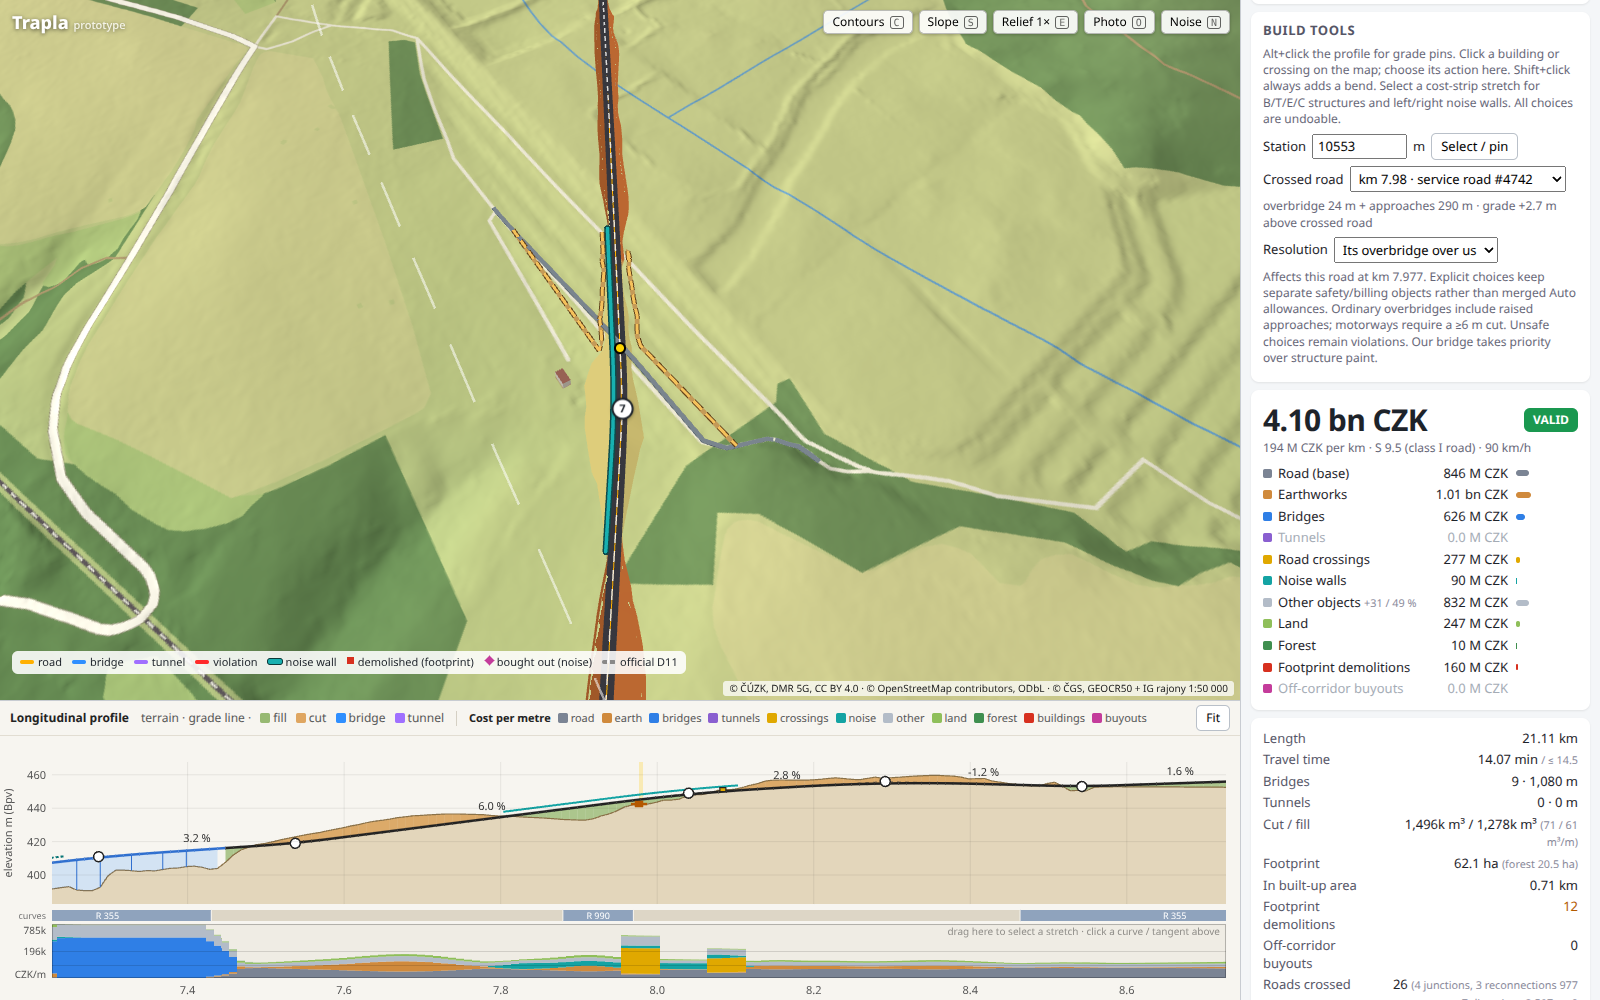
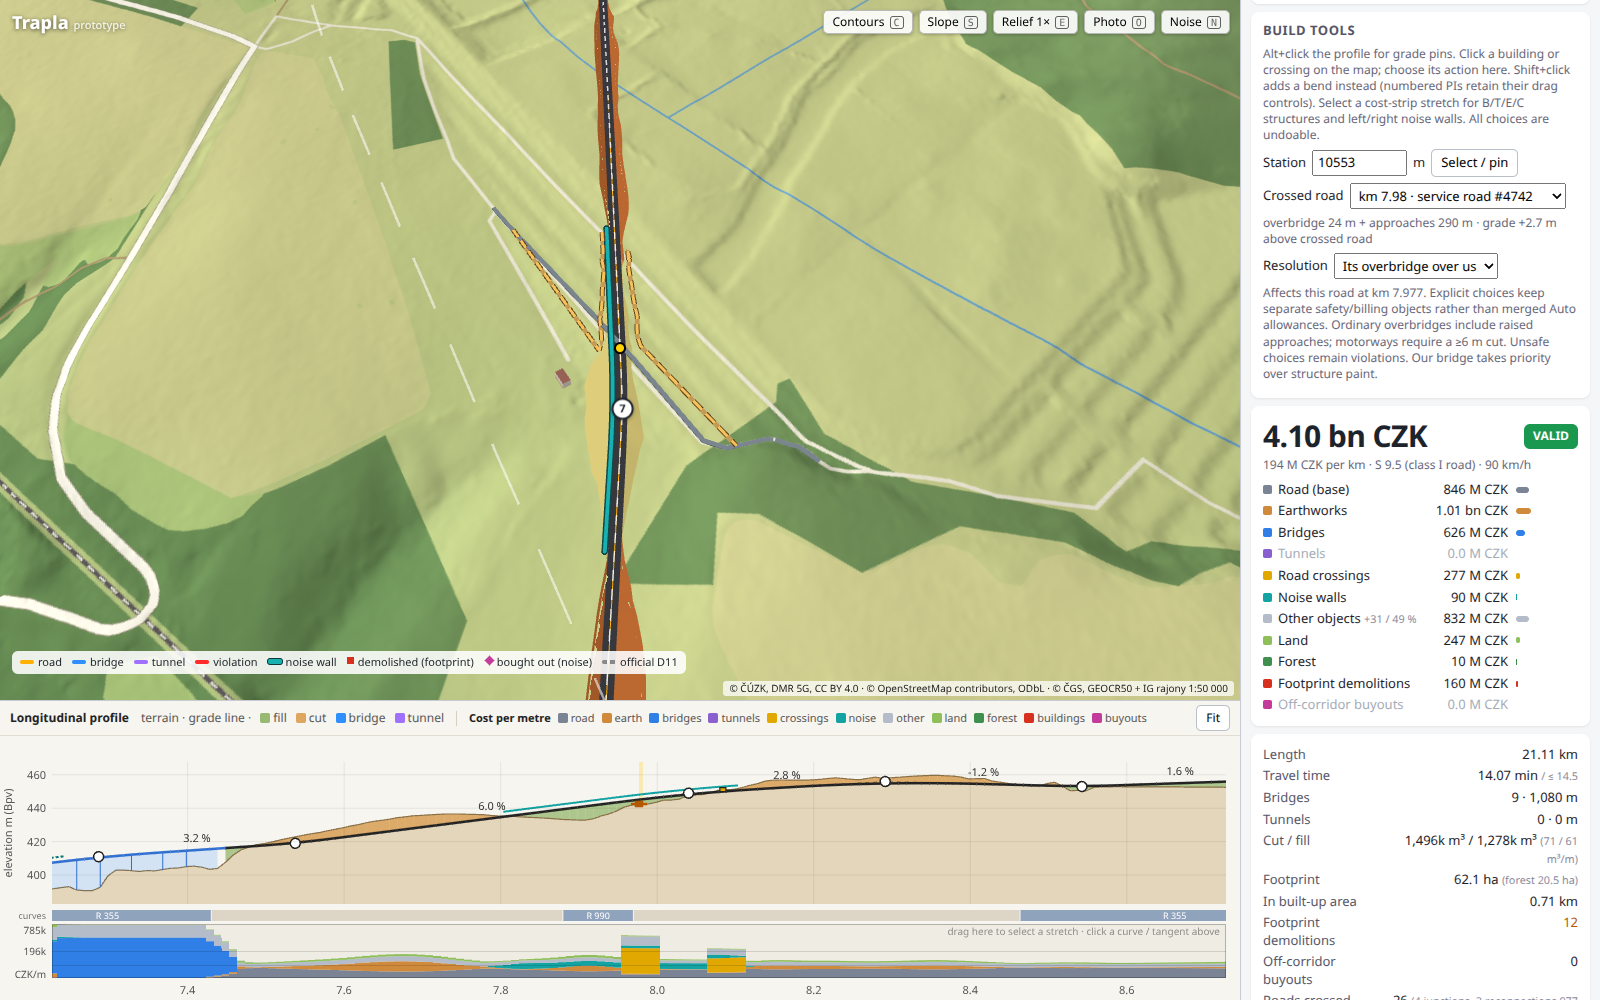
Stamp legacy best designs before future object-pack migrations

diff --git a/tests/state.test.ts b/tests/state.test.ts
@@ -18,6 +18,19 @@ it('keeps the design but resets incomparable best scores when the ground pack ch
     expect(mapped.offerBest(150, mapped.design)).toBe(true);
     expect(new Store('test', startDesign, 'ground-hash-A').best?.cost).toBe(150);
     expect(new Store('test', startDesign, 'ground-hash-B').best).toBeNull();
+
+    // An accepted pre-fingerprint best must be stamped on disk even when no cheaper result replaces
+    // it; otherwise Load best could rebind old building/road indices after the next pack rebuild.
+    const oldObjects = new Store('objects', startDesign, 'ground');
+    oldObjects.update((d) => { d.buildingOverrides = [{ j: 2, action: 'keep' }]; });
+    oldObjects.offerBest(100, oldObjects.design);
+    const accepted = new Store('objects', startDesign, 'ground', 'object-pack-A');
+    expect(accepted.best?.design.objectData).toBe('object-pack-A');
+    expect(accepted.offerBest(200, accepted.design)).toBe(false);
+    expect(JSON.parse(values.get('objects.best')!).design.objectData).toBe('object-pack-A');
+    const rebuilt = new Store('objects', startDesign, 'ground', 'object-pack-B');
+    expect(rebuilt.best).toBeNull();
+    expect(rebuilt.design.buildingOverrides).toEqual([]);
   } finally {
     vi.unstubAllGlobals();
   }

diff --git a/src/ui/build-tools.ts b/src/ui/build-tools.ts
@@ -126,7 +126,7 @@ export class BuildTools {
   private render() {
     this.pendingRender = false;
     const r = this.r, d = this.d, s = this.station;
-    this.root.innerHTML = `<h2>Build tools</h2><div class="sub">Alt+click the profile for grade pins. Click a building or crossing on the map; choose its action here. Shift+click always adds a bend. Select a cost-strip stretch for B/T/E/C structures and left/right noise walls. All choices are undoable.</div>`;
+    this.root.innerHTML = `<h2>Build tools</h2><div class="sub">Alt+click the profile for grade pins. Click a building or crossing on the map; choose its action here. Shift+click adds a bend instead (numbered PIs retain their drag controls). Select a cost-strip stretch for B/T/E/C structures and left/right noise walls. All choices are undoable.</div>`;
     if (this.objectDataChanged) {
       const notice = document.createElement('p'); notice.className = 'warn';
       notice.textContent = 'Scenario objects changed: saved building/crossing choices were cleared to avoid selecting different objects. Station-based decisions are retained.';

diff --git a/src/state.ts b/src/state.ts
@@ -37,6 +37,12 @@ export class Store {
       // a best score from an older cost model is not comparable with today's bills: forget it
       if (this.best && (this.best.model !== COST_MODEL_VERSION || this.best.pricingData !== pricingData
         || (objectData && this.best.design.objectData && this.best.design.objectData !== objectData))) this.best = null;
+      // Once accepted, legacy bests must acquire the SAME identity as the current design. Leaving
+      // them unstamped would let Load best rebind old positional IDs after a later pack rebuild.
+      if (this.best && objectData && !this.best.design.objectData) {
+        this.best.design.objectData = objectData;
+        try { localStorage.setItem(key + '.best', JSON.stringify(this.best)); } catch { /* quota */ }
+      }
     } catch { d = null; }
     // designs saved by the first prototype started from a terrain-hugging (invalid) profile: drop those
     this.design = d && Array.isArray(d.pis) && !(d as { naive?: boolean }).naive ? d : initial();

diff --git a/src/ui/hud.ts b/src/ui/hud.ts
@@ -107,7 +107,7 @@ export class Hud {
       <section class="card help">
         <h2>How to play</h2>
         <ul>
-          <li><b>Click</b> bare terrain to add a bend (PI); click a building/crossing for Build tools. <b>Shift+click</b> always adds a bend, even on an object</li>
+          <li><b>Click</b> bare terrain to add a bend (PI); click a building/crossing for Build tools. <b>Shift+click</b> adds a bend instead of selecting a building/crossing</li>
           <li><b>Drag</b> a numbered PI to move it, <b>right-click</b> or <kbd>Del</kbd> to delete</li>
           <li>Bends are corners of the dashed polygon; the selected one shows its radius on the map: drag a <b>◇ grip</b> along the leg, <b>wheel</b> over the bend or <kbd>+</kbd> / <kbd>−</kbd>, <b>max</b> / <b>auto</b>. Close bends turning the same way become one long curve</li>
           <li>Map: <b>left-drag</b> pan · <b>right-drag</b> rotate · <b>wheel</b> zoom</li>

diff --git a/PLAN.md b/PLAN.md
@@ -569,7 +569,8 @@ difference is calculated once per pair, avoiding three attenuation logarithms. T
   explicit clearance, depth, spacing, structure and reachable-link checks; invalid choices cannot serve
   as resolved link anchors. Auto receives requested bridge clearance / motorway-overbridge cut bounds;
   ordinary overbridges use the same priced raised approaches as Auto. The HUD lists all affected
-  intersections and can clear inactive saved road choices. Shift+map-click always places a bend. Map shows
+  intersections and can clear inactive saved road choices. Shift+map-click places a bend instead of
+  selecting a building/crossing; existing numbered PI markers retain their drag controls. Map shows
   junction rings, continuous crossed roads/decks and schematic two-sided links; pricing remains the
   documented station-gap proxy (not a surveyed diversion). Default scoring is unchanged.
 - **Building choices** persist by pack building index: explicit buyout/demolition anywhere, keep, or

diff --git a/README.md b/README.md
@@ -44,7 +44,8 @@ The headless scripts expect Chromium at `/usr/bin/chromium` (override with `CHRO
 ## How to play
 
 - **Click** bare terrain to add a bend (tangent intersection point, PI) to the nearest leg;
-  **Shift+click** always adds a bend, including on buildings/crossings (plain clicks select those objects); **drag** a numbered PI
+  **Shift+click** adds a bend instead of selecting a building/crossing (existing numbered PI markers
+  retain their selection/drag behaviour); **drag** a numbered PI
   to move it; **right-click** it or press <kbd>Del</kbd> to delete. Select a PI to edit its radius (auto = the
   smallest radius that satisfies the norm, incl. room for transition curves).
 - Map: left-drag pans, right-drag rotates, wheel zooms.
